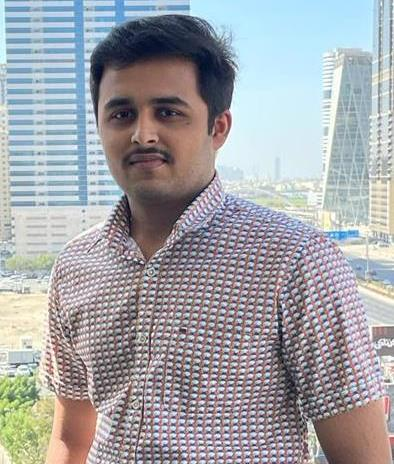
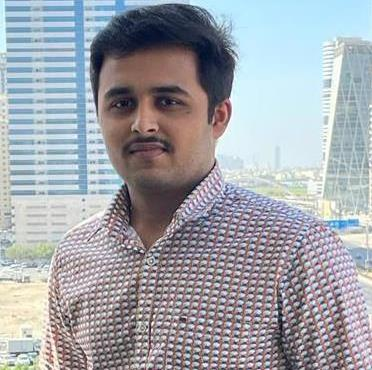
updated

diff --git a/css/style.css b/css/style.css
@@ -319,18 +319,18 @@ a.btts {
 
 .section-Contacts {
   padding: 9.6rem 0;
+  image-resolution: left;
+  align-items: lef;
 }
-
-.Contacts-plan {
+.section-Contacts .contacts .Contacts-plan {
   border-radius: 11px;
 
   width: 75%;
 }
 .button2 {
-  text-align: right;
-  margin-left: -23px;
+  margin-right: 350px;
   margin-top: 50px;
-  width: auto;
+  display: block;
 }
 /**************************/
 /* CTA SECTION */

diff --git a/index.html b/index.html
@@ -226,7 +226,7 @@
           <h2 class="heading-secondary">
             Contact Me!
           </h2>
-          <img src="img/Profile Pic-4.jpg" width="500" height="500" style="vertical-align:middle">
+          <img src="img/Profile Pic-4.jpg" width="250" height="250" >
 
           <div class="button2">
             <a href="https://github.com/SreeramVipparla" class="btts" id="hob">Github</a>
